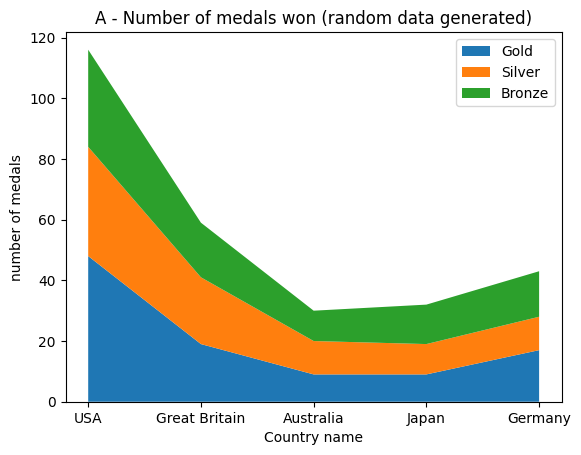
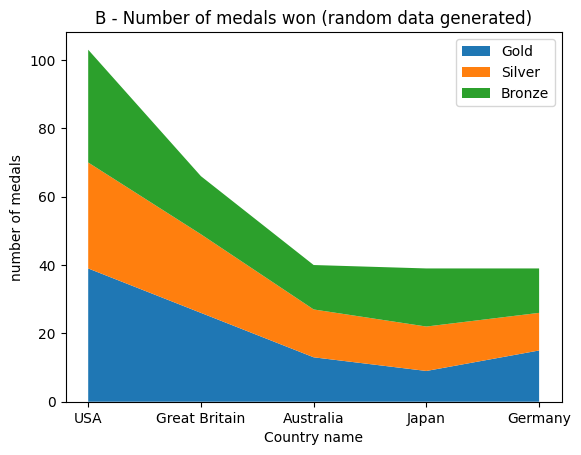
added last 12 questions

diff --git a/code/main.py b/code/main.py
@@ -12,22 +12,65 @@ question2 = Question("Which Graph shows more total medals for the USA?",
                     "assets/line-max-trial-2.png", "B", ["A", "", "", "", "B"], "line")
 question3 = Question("Which Graph shows more gold medals for the UK?",
                     "assets/area-max-trial-1.png",
-                    "assets/area-max-trial-2.png", "A", ["A", "", "", "", "B"], "line")
+                    "assets/area-max-trial-2.png", "B", ["A", "", "", "", "B"], "area")
 question4 = Question("Which Graph shows more total medals for the USA?",
                     "assets/area-max-trial-1.png",
-                    "assets/area-max-trial-2.png", "B", ["A", "", "", "", "B"], "line")
+                    "assets/area-max-trial-2.png", "B", ["A", "", "", "", "B"], "area")
+
+### Remake
 question5 = Question("In which Graph did UK win less bronze medals?",
-                    "assets/line-max-trial-3.png",
-                    "assets/line-max-trial-4.png", "A", ["A", "", "", "", "B"], "line")
+                    "assets/line-max-trial-3.png", 
+                    "assets/line-max-trial-4.png", "B", ["A", "", "", "", "B"], "line")
 question6 = Question("What is the sum of the silver medals won by Germany in both graphs?",
                     "assets/line-max-trial-3.png",
-                    "assets/line-max-trial-4.png", "20", ["10", "15", "20", "25", "30"], "line")
+                    "assets/line-max-trial-4.png", "44", ["38", "40", "44", "46", "48"], "line")
 question7 = Question("In which Graph did UK win less bronze medals?",
                     "assets/area-max-trial-3.png",
-                    "assets/area-max-trial-4.png", "A", ["A", "", "", "", "B"], "line")
+                    "assets/area-max-trial-4.png", "A", ["A", "", "", "", "B"], "area")
 question8 = Question("What is the sum of the silver medals won by Germany in both graphs?",
                     "assets/area-max-trial-3.png",
-                    "assets/area-max-trial-4.png", "30", ["10", "15", "20", "25", "30"], "line")
+                    "assets/area-max-trial-4.png", "37", ["33", "35", "37", "39", "41"], "area")
+
+question9 = Question("In Graph A, which year shows the least amount of total medals gained?",
+                    "assets/line-years-trial-1.png", # 109, 111, 112, 
+                    "assets/line-years-trial-2.png", "Year 1", ["Year 1", "Year 2", "Year 3", "Year 4", "Year 5"], "line")
+question10 = Question("In Graph B, which year shows the least amount of total medals gained??",
+                    "assets/line-years-trial-1.png",
+                    "assets/line-years-trial-2.png", "Year 2", ["Year 1", "Year 2", "Year 3", "Year 4", "Year 5"], "line")
+question11 = Question("In Graph A, which year shows the least amount of total medals gained?",
+                    "assets/area-years-trial-1.png",
+                    "assets/area-years-trial-2.png", "Year 3", ["Year 1", "Year 2", "Year 3", "Year 4", "Year 5"], "area")
+question12 = Question("In Graph B, which year shows the least amount of total medals gained?",
+                    "assets/area-years-trial-1.png",
+                    "assets/area-years-trial-2.png", "Year 4", ["Year 1", "Year 2", "Year 3", "Year 4", "Year 5"], "area")
+question13 = Question("In Graph A, which country got the most medals?",
+                    "assets/line-max-trial-5.png",
+                    "assets/line-max-trial-6.png", "GB", ["GB", "AUS", "JP", "GER", ""], "line")
+question14 = Question("In Graph A, which country got the 2nd highest amount of medals?",
+                    "assets/line-max-trial-5.png",
+                    "assets/line-max-trial-6.png", "GER", ["GB", "AUS", "JP", "GER", ""], "line")
+question15 = Question("In Graph B, which country got the most medals?",
+                    "assets/line-max-trial-5.png",
+                    "assets/line-max-trial-6.png", "GB", ["GB", "AUS", "JP", "GER", ""], "line")
+question16 = Question("In Graph B, which country got the 2nd highest amount of medals?",
+                    "assets/line-max-trial-5.png",
+                    "assets/line-max-trial-6.png", "AUS", ["GB", "AUS", "JP", "GER", ""], "line")
+question17 = Question("In Graph A, which country got the most medals?",
+                    "assets/area-max-trial-5.png",
+                    "assets/area-max-trial-6.png", "GER", ["GB", "AUS", "JP", "GER", ""], "area")
+question18 = Question("In Graph A, which country got the 2nd highest amount of medals?",
+                    "assets/area-max-trial-5.png",
+                    "assets/area-max-trial-6.png", "AUS", ["GB", "AUS", "JP", "GER", ""], "area")
+question19 = Question("In Graph B, which country got the most medals?",
+                    "assets/area-max-trial-5.png",
+                    "assets/area-max-trial-6.png", "GER", ["GB", "AUS", "JP", "GER", ""], "area")
+question20 = Question("In Graph B, which country got the 2nd highest amount of medals?",
+                    "assets/area-max-trial-5.png",
+                    "assets/area-max-trial-6.png", "GB", ["GB", "AUS", "JP", "GER", ""], "area")
+question21 = Question("Which graphtype do you find easier to read??",
+                    "assets/line-max-trial-1.png",
+                    "assets/area-max-trial-1.png", "line", ["line", "", "", "", "area"], "")
+
 
 question_list = []
 question_list.append(question)
@@ -38,6 +81,19 @@ question_list.append(question5)
 question_list.append(question6)
 question_list.append(question7)
 question_list.append(question8)
+question_list.append(question9)
+question_list.append(question10)
+question_list.append(question11)
+question_list.append(question12)
+question_list.append(question13)
+question_list.append(question14)
+question_list.append(question15)
+question_list.append(question16)
+question_list.append(question17)
+question_list.append(question18)
+question_list.append(question19)
+question_list.append(question20)
+question_list.append(question21)
 
 controller = QuizController(question_list)
 

diff --git a/code/graph_gen/dataGen.py b/code/graph_gen/dataGen.py
@@ -15,14 +15,23 @@ GER: 11-17, 10-20, 13-15
 """
 
 def get_country_list():
-    return ["USA", "Great Britain", "Australia", "Japan", "Germany"]
+    return ["Great Britain", "Australia", "Japan", "Germany"]
+
+
+def get_year_list():
+    return ["Year 1", "Year 2", "Year 3", "Year 4", "Year 5"]
+
+def get_5_american_years():
+    return [[r.randint(36, 48), r.randint(36, 48), r.randint(36, 48), r.randint(36, 48), r.randint(36, 48)],
+            [r.randint(22, 37), r.randint(22, 37), r.randint(22, 37), r.randint(22, 37), r.randint(22, 37)],
+            [r.randint(30, 38), r.randint(30, 38), r.randint(30, 38), r.randint(30, 38), r.randint(30, 38)]]
 
 def get_gold_medal_data():
-    return [r.randint(36, 48), r.randint(19, 29), r.randint(8, 14), r.randint(7, 12), r.randint(11, 17)]
+    return [ r.randint(13, 22), r.randint(8, 14), r.randint(7, 12), r.randint(11, 17)]
 
 def get_silver_medal_data():
-    return [r.randint(22, 37), r.randint(13, 23), r.randint(11, 15), r.randint(8, 14), r.randint(10, 20)]
+    return [ r.randint(13, 23), r.randint(11, 15), r.randint(8, 14), r.randint(10, 20)]
 
 def get_bronze_medal_data():
-    return [r.randint(30, 38), r.randint(17, 19), r.randint(10, 17), r.randint(8, 21), r.randint(13, 15)]
+    return [r.randint(12, 19), r.randint(10, 17), r.randint(8, 21), r.randint(13, 15)]
 

diff --git a/code/graph_gen/yearTrialGen.py b/code/graph_gen/yearTrialGen.py
@@ -1,0 +1,36 @@
+import matplotlib.pyplot as plt
+from dataGen import get_year_list, get_5_american_years
+
+year_names = get_year_list()
+years = get_5_american_years()
+gold_medals = years[0]
+silver_medals = years[1]
+bronze_medals = years[2]
+
+
+# plt.plot(year_names, gold_medals, label="Gold")
+# plt.plot(year_names, silver_medals, label="Silver")
+# plt.plot(year_names, bronze_medals, label="Bronze")
+
+# plt.xlabel("Game number")
+# plt.ylabel("number of medals won")
+# plt.legend()
+# plt.title("B - Number of medals won per game for the USA")
+
+# plt.savefig("assets/line-years-trial-2.png", bbox_inches="tight")
+
+count = 0
+while(count < 5):
+    print("total: ", gold_medals[count] + silver_medals[count] + bronze_medals[count])
+    count=count+1
+
+
+plt.stackplot(year_names, gold_medals, silver_medals, bronze_medals,
+               labels=["Gold", "Silver", "Bronze"])
+
+plt.xlabel("Game name")
+plt.ylabel("number of medals")
+plt.legend()
+plt.title("B - Number of medals won per game for the USA")
+
+plt.savefig("assets/area-years-trial-2.png", bbox_inches="tight")

diff --git a/code/graph_gen/maximumTrialGen.py b/code/graph_gen/maximumTrialGen.py
@@ -14,10 +14,14 @@ bronze_medals = get_bronze_medal_data()
 # plt.xlabel("Country name")
 # plt.ylabel("number of medals")
 # plt.legend()
-# plt.title("Number of medals won (random data generated)")
+# plt.title("A - Number of medals won (random data generated)")
 
-# plt.savefig("code/assets/line-max-trial-4.png", bbox_inches="tight")
+# plt.savefig("assets/line-max-trial-4.png", bbox_inches="tight")
 
+count = 0
+while(count < 4):
+    print("total: ",bronze_medals[count] + silver_medals[count] + gold_medals[count])
+    count=count+1
 
 plt.stackplot(country_names, gold_medals, silver_medals, bronze_medals, labels=["Gold", "Silver", "Bronze"])
 
@@ -26,4 +30,4 @@ plt.ylabel("number of medals")
 plt.legend()
 plt.title("B - Number of medals won (random data generated)")
 
-plt.savefig("code/assets/area-max-trial-4.png", bbox_inches="tight")
+plt.savefig("assets/area-max-trial-6.png", bbox_inches="tight")

diff --git a/code/quiz/ui.py b/code/quiz/ui.py
@@ -27,7 +27,7 @@ class QuizUI:
 
         # Create area for questions
         self.canvas = Canvas(self.window, width=1200, height=720)
-        self.question_text = self.canvas.create_text(540, 25,
+        self.question_text = self.canvas.create_text(550, 20,
                                                      text="Question here",
                                                      width=680,
                                                      fill="#375362",
